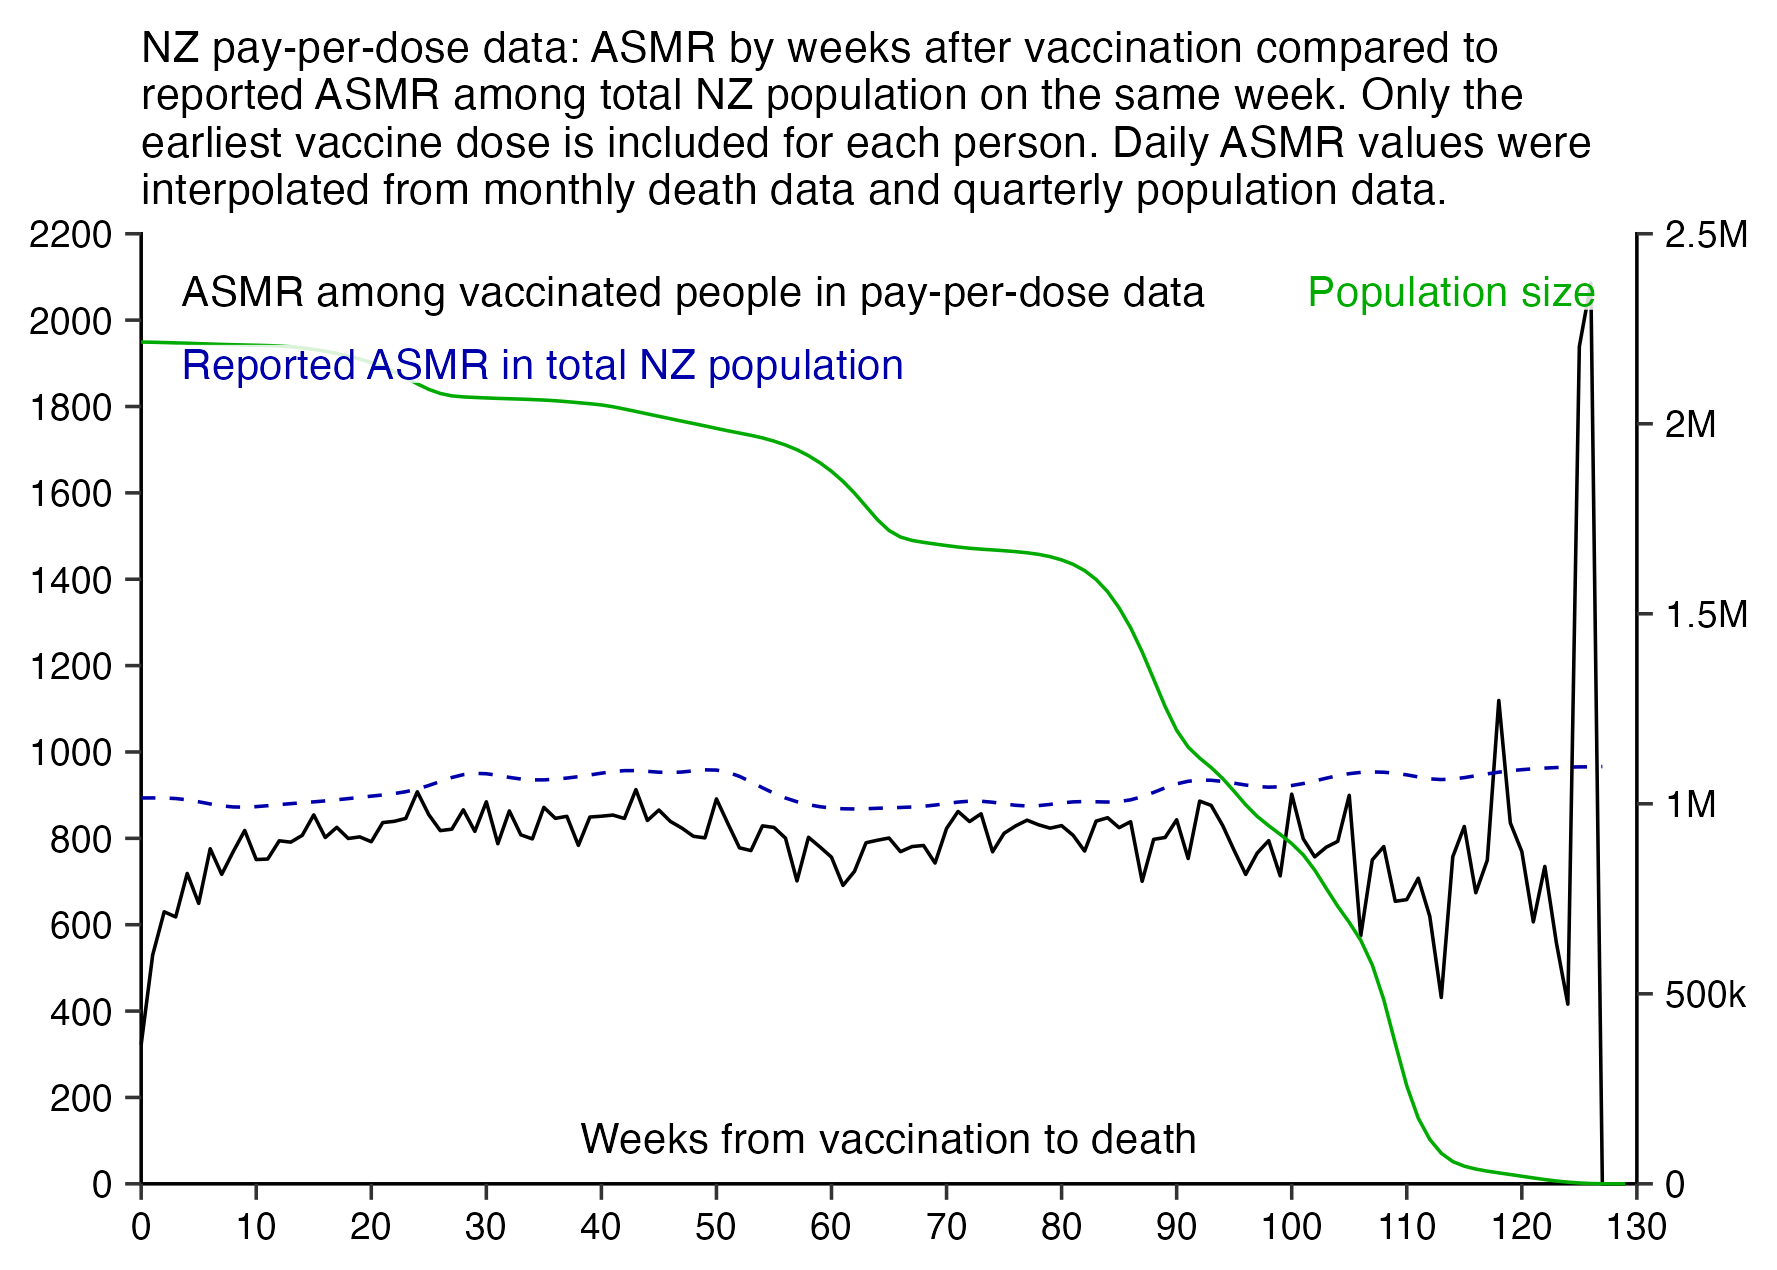
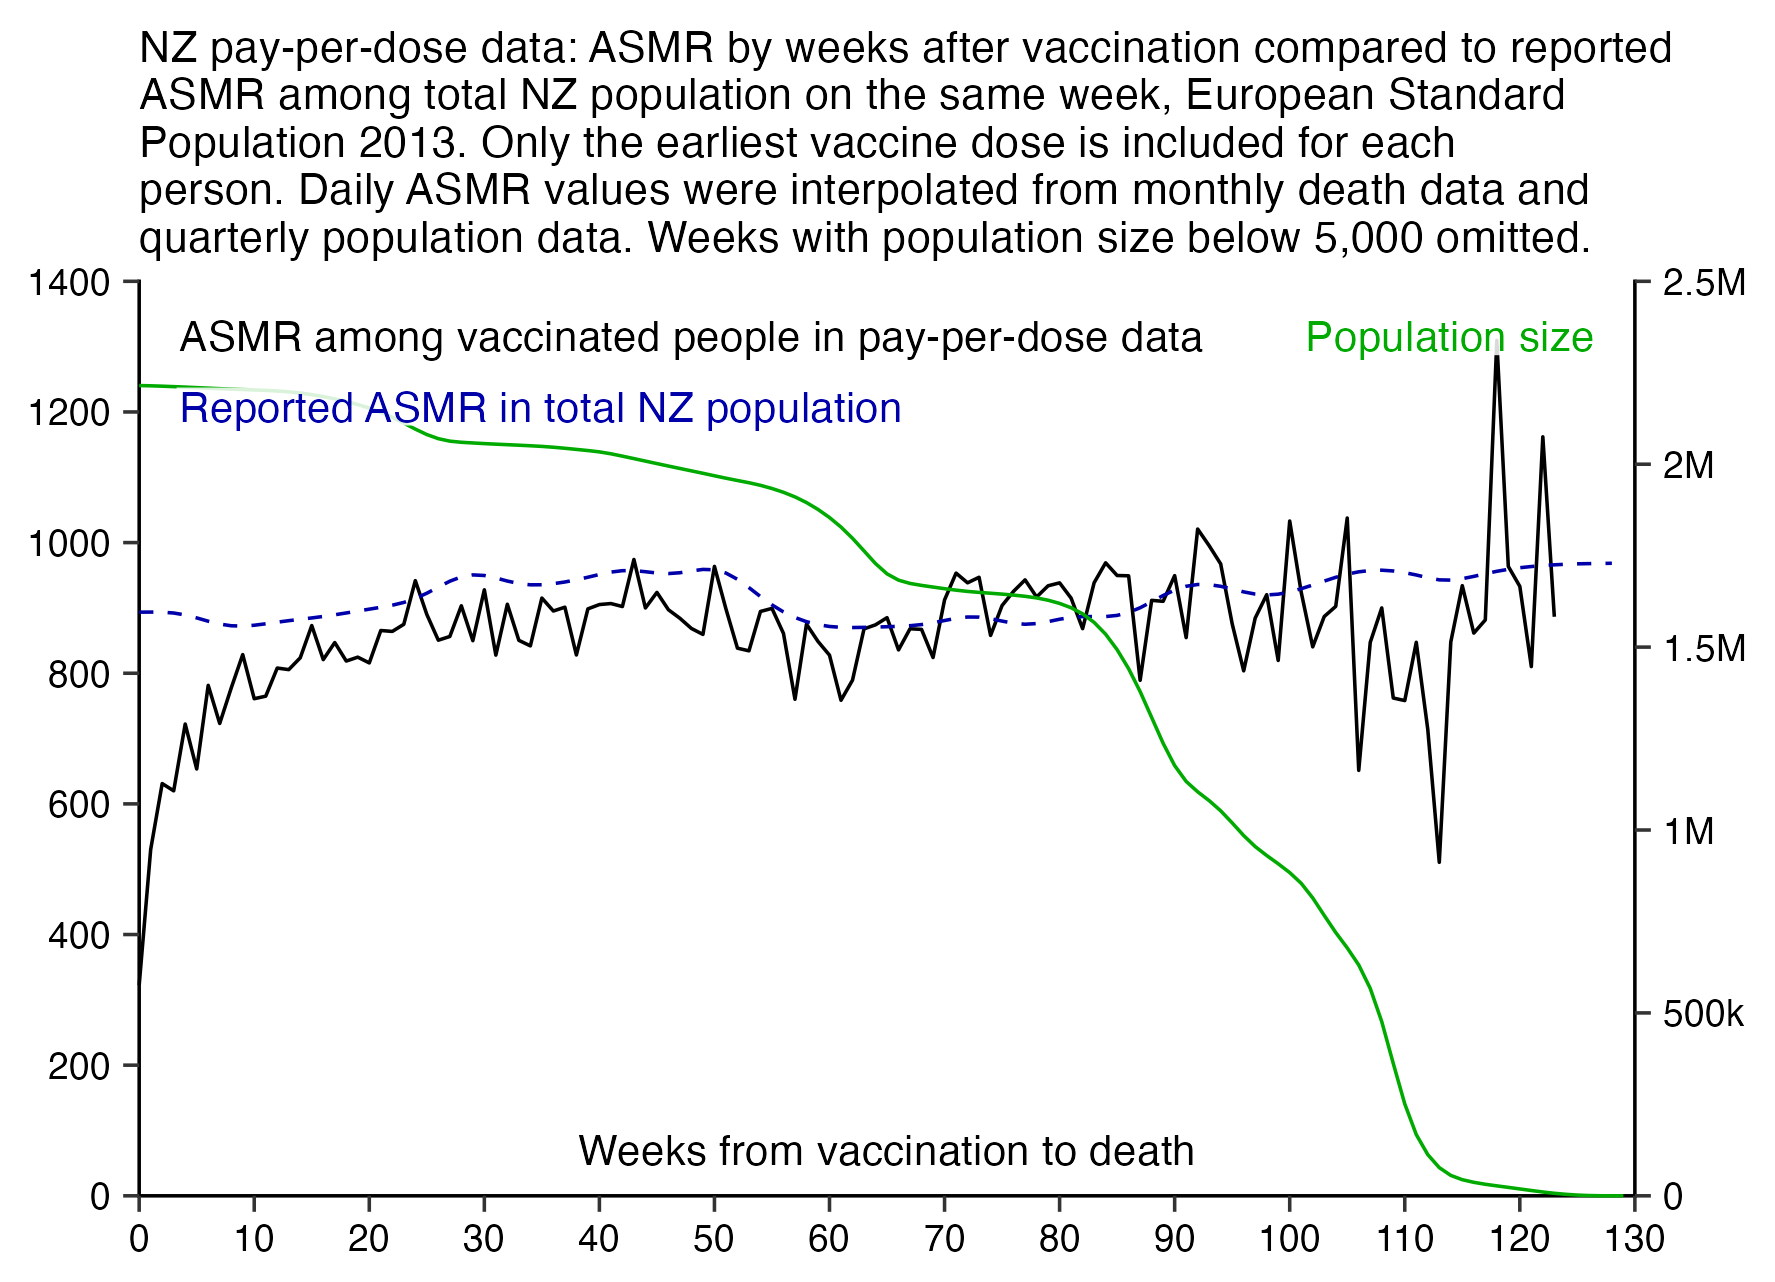
a

diff --git a/moar.html b/moar.html
@@ -3847,65 +3847,57 @@ system(&quot;montage -geometry +0+0 -tile 2x [12]..png 1.png&quot;)</pre>
 <div class="width6">
 <img src="i/moar-asmrweek-1.png">
 </div>
-<p>Kirsch claims that the mortality level around week 3 after vaccination is the baseline and later on vaccinated people have high excess mortality. But how is it possible when most of the NZ population is vaccinated and the total excess mortality in NZ is close to zero? In the plot above vaccinated people have around -31% excess mortality on week 3. But if the mortality level on week 3 was used as the baseline instead, then vaccinated people would a sustained level of about 25-40% excess mortality from week 13 onwards.</p>
-<pre>t=as.data.frame(data.table::fread(&quot;nz-record-level-data-4M-records.csv&quot;))
+<p>Kirsch claims that the mortality level around week 3 after vaccination is the baseline and later on vaccinated people have high excess mortality. But how is it possible when most of the NZ population is vaccinated and the total excess mortality in NZ is close to zero? In the plot above vaccinated people have around -31% excess mortality on week 3. But if the mortality level on week 3 was used as the baseline instead, then vaccinated people would a sustained level of about 30-50% excess mortality from week 13 onwards.</p>
+<pre>library(data.table);library(tempdisagg);library(ggplot2);library(stringr)
+
+t=as.data.frame(fread(&quot;nz-record-level-data-4M-records.csv&quot;,showProgress=F))
 for(i in grep(&quot;date&quot;,colnames(t)))t[,i]=as.Date(t[,i],&quot;%m-%d-%Y&quot;)
 
 t=t[order(t$date_time_of_service),];t=t[!duplicated(t$mrn),]
-
 maxdate=as.Date(&quot;2023-9-30&quot;)
-t=t[!(!is.na(t$date_of_death)&amp;t$date_of_death&gt;maxdate),]
-t=t[!t$date_time_of_service&gt;maxdate,]
-t=t[!(!is.na(t$date_of_death)&amp;t$date_of_death&lt;t$date_time_of_service),]
+t=t[pmax(t$date_of_death&lt;t$date_time_of_service,t$date_time_of_service&gt;maxdate,na.rm=T)==0,]
+t$date_of_death[t$date_of_death&gt;maxdate]=NA
 
 bin=7
-
-endbin=as.numeric(maxdate-t$date_time_of_service)%/%bin
+endbin=as.numeric(pmin(maxdate,t$date_of_death,na.rm=T)-t$date_time_of_service)%/%bin
 deadbin=as.numeric(t$date_of_death-t$date_time_of_service)%/%bin
 age=as.numeric(t$date_time_of_service-t$date_of_birth)/365.25
+bins=0:(max(endbin)+1)
 
 esp=c(1000,4000,5500,5500,5500,6000,6000,6500,7000,7000,7000,7000,6500,6000,5500,5000,4000,2500,1500,800,200)
-espage=c(0,1,5,10,15,20,25,30,35,40,45,50,55,60,65,70,75,80,85,90,95)
-espcut=\(x)cut(x,c(espage,Inf),,T,F)
+espage=c(0,1,seq(5,95,5));espcut=\(x)cut(x,c(espage,Inf),,T,F)
 
-bins=0:max(endbin)
+dead=sapply(bins,\(i)table(espcut(age[i==deadbin]+i*bin/365)))
+alive=sapply(bins,\(i)table(espcut(age[i&lt;=endbin]+i*bin/365)))
+asmr=colSums(dead/alive*esp*365/bin,na.rm=T)
+o=outer(as.numeric(t$date_time_of_service),bins*bin+bin%/%2,&quot;+&quot;);o[col(o)&gt;endbin]=NA
 
-ded=sapply(bins,\(i)table(espcut(age[i==deadbin]+i*bin/365)))
-aliv=sapply(bins,\(i)table(espcut(age[i&lt;=endbin]+i*bin/365)))
-asmr=colSums(ded/aliv*esp*365/bin,na.rm=T)
+nzpop=read.csv(&quot;https://mongol-fi.github.io/f/nz_infoshare_population_quarterly.csv&quot;,check.names=F,row.names=1)|&gt;tail(11)
+nzpop=t(rowsum(t(nzpop),espcut(as.numeric(colnames(nzpop)))))
+nzdeath=read.csv(&quot;https://mongol-fi.github.io/f/nz_monthly_deaths_by_age.csv&quot;)|&gt;subset(ethnicity==&quot;Total&quot;)
+nzdeath=xtabs(count~as.Date(paste(year_reg,month_reg,1,sep=&quot;-&quot;))+age_group,nzdeath)|&gt;tail(33)
 
-o=outer(as.numeric(t$date_time_of_service),bins*bin,&quot;+&quot;)
-o[col(o)&gt;=endbin]=NA
-
-pop=read.csv(&quot;https://mongol-fi.github.io/f/nz_infoshare_population_quarterly.csv&quot;,check.names=F,row.names=1)|&gt;tail(11)
-pop=t(rowsum(t(pop),cut(as.numeric(colnames(pop)),c(espage,Inf),,T,F)))
-dead=read.csv(&quot;https://mongol-fi.github.io/f/nz_monthly_deaths_by_age.csv&quot;)|&gt;subset(ethnicity==&quot;Total&quot;)
-dead=xtabs(count~as.Date(paste(year_reg,month_reg,1,sep=&quot;-&quot;))+age_group,dead)|&gt;tail(33)
 qua=seq(as.Date(&quot;2021-1-1&quot;),as.Date(&quot;2023-9-1&quot;),&quot;3 month&quot;)
-library(tempdisagg)
-dailypop=apply(pop,2,\(i)predict(td(data.frame(qua,i)~1,&quot;mean&quot;,&quot;daily&quot;,&quot;fast&quot;))$value)
-dailydead=apply(dead,2,\(i)predict(td(data.frame(as.Date(rownames(dead)),i)~1,,&quot;daily&quot;,&quot;fast&quot;))$value)
+dailypop=apply(nzpop,2,\(i)predict(td(data.frame(qua,i)~1,&quot;mean&quot;,&quot;daily&quot;,&quot;fast&quot;))$value)
+dailydead=apply(nzdeath,2,\(i)predict(td(data.frame(as.Date(rownames(nzdeath)),i)~1,,&quot;daily&quot;,&quot;fast&quot;))$value)
 dailyasmr=colSums(t(dailydead/dailypop)*esp*365)
 binasmr=colMeans(matrix(dailyasmr[o-as.numeric(as.Date(&quot;2021-1-1&quot;))+1],nrow(o)),na.rm=T)
 
-xy=data.frame(x=bins,asmr,binasmr)
-xy$pop=colSums(aliv)
+xy=data.frame(x=bins,asmr,binasmr,pop=colSums(alive))
+xy$asmr[xy$pop&lt;5e3]=NA
 
-xstart=0;xend=130;xstep=10;xbreak=seq(xstart,xend,xstep)
-ystart=0;yend=2200;ystep=200;ybreak=seq(ystart,yend,ystep)
-yend2=25e5;ystep2=5e5;ybreak2=seq(0,yend2,ystep2)
+xstart=0;xend=130;ystart=0;yend=1400;yend2=25e5
+xbreak=seq(xstart,xend,10);ybreak=seq(ystart,yend,200);ybreak2=seq(0,yend2,5e5)
 secmult=yend/yend2
 
 legend1=data.frame(x=xstart+.025*(xend-xstart),y=seq((yend-ystart)*.94+ystart,,-(yend-ystart)/13,2))
 legend2=data.frame(x=xstart+.975*(xend-xstart),y=seq((yend-ystart)*.94+ystart,,-(yend-ystart)/13,1))
 legend1$label=c(&quot;ASMR among vaccinated people in pay-per-dose data&quot;,&quot;Reported ASMR in total NZ population&quot;)
 legend2$label=c(&quot;Population size&quot;)
-color1=c(&quot;black&quot;,&quot;#0000aa&quot;)
-color2=c(&quot;#00aa00&quot;)
+color1=c(&quot;black&quot;,&quot;#0000aa&quot;);color2=c(&quot;#00aa00&quot;)
 
 kimi=\(x){e=floor(log10(ifelse(x==0,1,abs(x))));e2=pmax(e,0)%/%3+1;x[]=ifelse(abs(x)&lt;1,x,paste0(round(x/1e3^(e2-1),ifelse(e%%3==0,1,0)),c(&quot;&quot;,&quot;k&quot;,&quot;M&quot;,&quot;B&quot;,&quot;T&quot;)[e2]));x}
 
-library(ggplot2)
 ggplot(xy,aes(x=x,y=asmr))+
 geom_vline(xintercept=c(xstart,xend),linewidth=.3,lineend=&quot;square&quot;)+
 geom_hline(yintercept=ystart,linewidth=.3,lineend=&quot;square&quot;)+
@@ -3915,10 +3907,10 @@ geom_line(aes(y=pop*secmult),linewidth=.3,color=color2[1])+
 geom_label(data=legend1,aes(x=x,y=y,label=label),fill=alpha(&quot;white&quot;,.85),label.r=unit(0,&quot;lines&quot;),label.padding=unit(.05,&quot;lines&quot;),label.size=0,size=2.7,hjust=0,color=color1)+
 geom_label(data=legend2,aes(x=x,y=y,label=label),fill=alpha(&quot;white&quot;,.85),label.r=unit(0,&quot;lines&quot;),label.padding=unit(.05,&quot;lines&quot;),label.size=0,size=2.7,hjust=1,color=color2)+
 annotate(geom=&quot;label&quot;,x=xend/2,y=0,vjust=-.8,hjust=.5,label=&quot;Weeks from vaccination to death&quot;,fill=alpha(&quot;white&quot;,.8),label.r=unit(0,&quot;lines&quot;),label.padding=unit(.05,&quot;lines&quot;),label.size=0,size=2.7)+
-labs(x=NULL,y=NULL,title=&quot;NZ pay-per-dose data: ASMR by weeks after vaccination compared to reported ASMR among total NZ population on the same week. Only the earliest vaccine dose is included for each person. Daily ASMR values were interpolated from monthly death data and quarterly population data.&quot;|&gt;stringr::str_wrap(73))+
+labs(x=NULL,y=NULL,title=&quot;NZ pay-per-dose data: ASMR by weeks after vaccination compared to reported ASMR among total NZ population on the same week, European Standard Population 2013. Only the earliest vaccine dose is included for each person. Daily ASMR values were interpolated from monthly death data and quarterly population data. Weeks with population size below 5,000 omitted.&quot;|&gt;str_wrap(75))+
 scale_x_continuous(limits=c(xstart,xend),breaks=xbreak,expand=expansion(0))+
-scale_y_continuous(limits=c(ystart,yend),breaks=ybreak,expand=expansion(0),sec.axis=sec_axis(trans=~./secmult,breaks=ybreak2,label=kimi))+
-coord_cartesian(clip=&quot;off&quot;)+
+scale_y_continuous(breaks=ybreak,expand=expansion(0),sec.axis=sec_axis(trans=~./secmult,breaks=ybreak2,label=kimi))+
+coord_cartesian(ylim=c(ystart,yend),clip=&quot;off&quot;)+
 theme(axis.text=element_text(size=6.8,color=&quot;black&quot;),
   axis.ticks=element_line(linewidth=.3),
   axis.ticks.length=unit(.2,&quot;lines&quot;),
@@ -3927,7 +3919,7 @@ theme(axis.text=element_text(size=6.8,color=&quot;black&quot;),
   panel.grid.major=element_blank(),
   panel.background=element_rect(fill=&quot;white&quot;),
   plot.margin=margin(.3,.7,.3,.3,&quot;lines&quot;),
-  plot.title=element_text(size=7.9,margin=margin(.4,0,.5,0,&quot;lines&quot;)),
+  plot.title=element_text(size=7.9,margin=margin(.1,0,.5,0,&quot;lines&quot;)),
   plot.subtitle=element_text(size=7,margin=margin(0,0,.3,0,&quot;lines&quot;)))
 ggsave(&quot;1.png&quot;,width=4.5,height=3.2,dpi=400)
 system(&quot;mogrify -gravity center -trim -border 30 -bordercolor white +repage 1.png&quot;)
